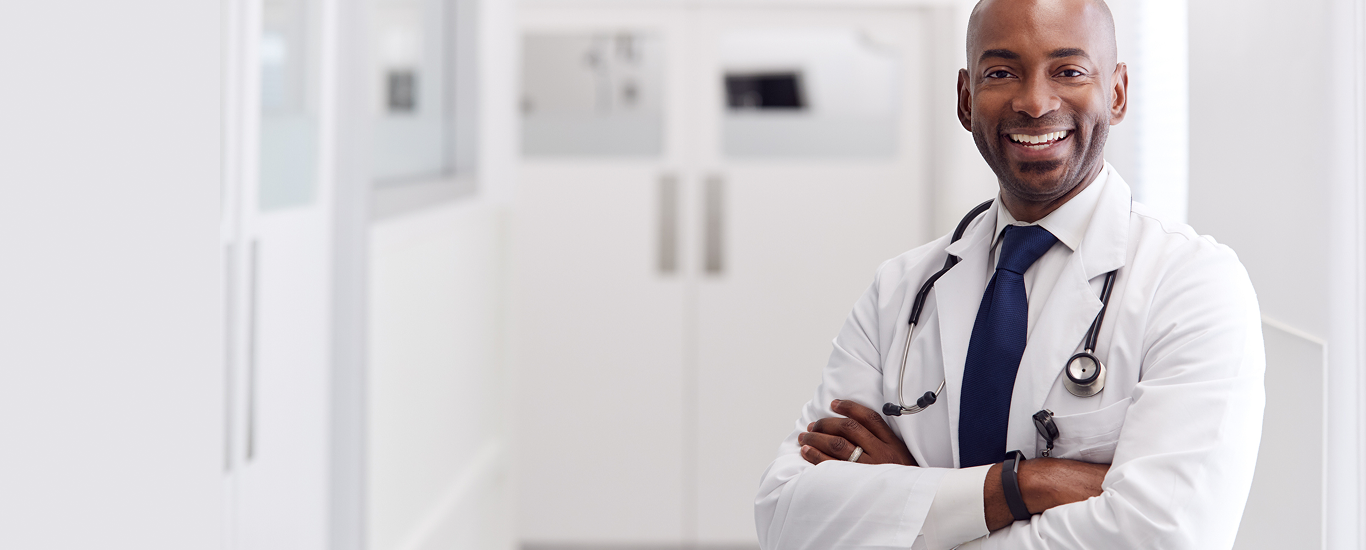
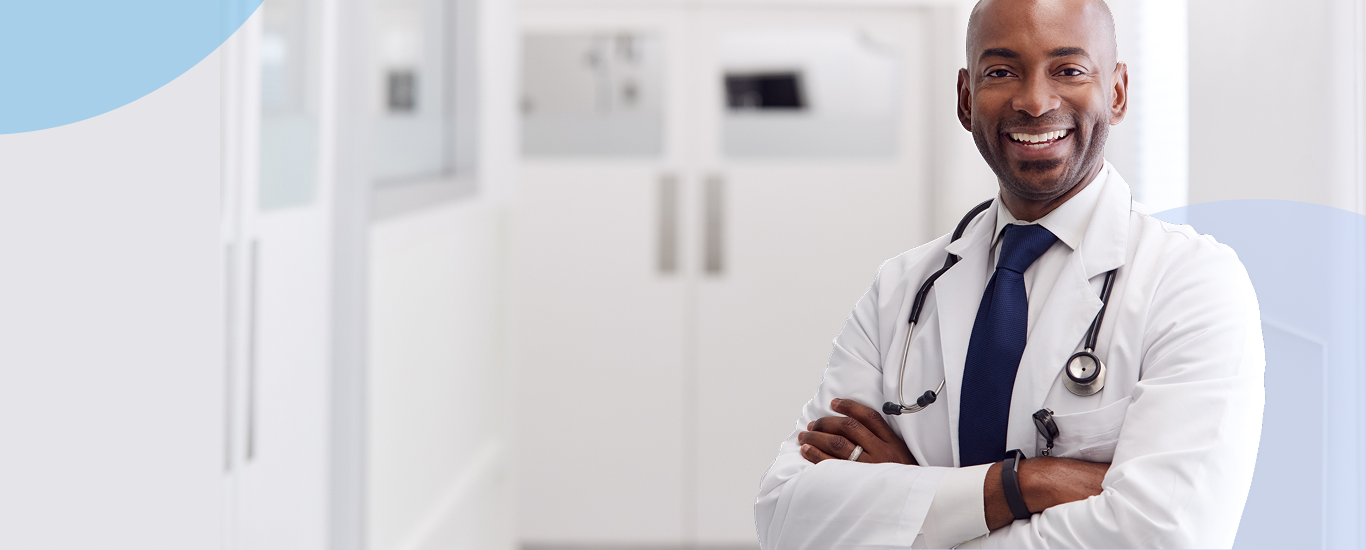
hero section done

diff --git a/index.html b/index.html
@@ -18,6 +18,8 @@
     <link
         href="https://fonts.googleapis.com/css2?family=Lora:ital,wght@0,400..700;1,400..700&family=Plus+Jakarta+Sans:ital,wght@0,200..800;1,200..800&family=Yeseva+One&display=swap"
         rel="stylesheet">
+    <link href="https://fonts.googleapis.com/css2?family=Work+Sans:ital,wght@0,100..900;1,100..900&display=swap"
+        rel="stylesheet">
 </head>
 
 <body>
@@ -25,7 +27,7 @@
         <div class="container">
             <div class="topmost bg-white d-flex justify-content-between align-items-center m-2">
                 <div class="logo">
-                    <h1>MED<span>DICAL</span></h1>
+                    <h1 class="m-0">MED<span>DICAL</span></h1>
                 </div>
                 <div class="d-flex justify-content-center">
                     <div class="note d-flex gap-4">
@@ -57,8 +59,8 @@
         <nav>
             <div class="container d-flex justify-content-between align-items-center">
                 <div class="navbar d-flex align-items-center">
-                    <ul class="d-flex list-unstyled align-items-center gap-4 fs-5 m-0">
-                        <li><a class="active_page text-white text-decoration-none link-primary"
+                    <ul class="d-flex list-unstyled gap-4 fs-5 m-0">
+                        <li><a class="active_page text-primary text-decoration-none link-primary"
                                 href="index.html">Home</a>
                         </li>
                         <li><a class="text-white text-decoration-none link-primary" href="about.html">About Us</a></li>
@@ -70,15 +72,25 @@
 
                     </ul>
                 </div>
-                <div class="nav_btns">
-                    <button class="search_btn">
+                <div class="nav_btns d-flex gap-4">
+                    <button class="search_btn bg-transparent border-0 text-white fs-4 px-2 py-1 rounded-5">
                         <i class="fa-solid fa-magnifying-glass"></i>
                     </button>
-                    <a class="py-2 px-4 text-decoration-none rounded-5" href="">Appointment</a>
+                    <a class="py-2 px-4 text-decoration-none rounded-5 fw-bold" href="">Appointment</a>
                 </div>
             </div>
         </nav>
     </header>
+    <section id="hero">
+        <div class="container h-100 d-flex align-items-center">
+            <div class="hero_content">
+                <h5>Caring for Life</h5>
+                <h2>Leading the Way <br>
+                    in Medical Excellence</h2>
+                <a class="d-inline-block py-2 px-4 text-decoration-none rounded-5 mt-3 fw-bold" href="">Our Services</a>
+            </div>
+        </div>
+    </section>
 </body>
 
 </html>

diff --git a/style.css b/style.css
@@ -1,18 +1,29 @@
+/* initial set up start */
 :root {
     --primary-font-family: "Yeseva One", serif;
+    --secondary-font-family: "Work Sans", sans-serif;
     --primary-color: #1F2B6C;
     --secondary-color: #159EEC;
     --accent-color: #BFD2F8;
+    --primary-font-size: 3rem;
+
 }
 
+h5 {
+    color: var(--secondary-color);
+    font-family: var(--secondary-font-family);
+}
+
+h2 {
+    color: var(--primary-color);
+    font-family: var(--primary-font-family);
+    font-size: var(--primary-font-size);
+}
+
+/* initial set up end*/
 nav {
     background: var(--primary-color);
     padding: 12px 0;
-}
-
-nav .container {
-    display: flex;
-    align-items: center;
 }
 
 h1 {
@@ -24,41 +35,22 @@ h1 span {
     color: var(--secondary-color);
 }
 
-
-
-nav a {
+a {
     transition: all .3s ease;
 }
 
-.active_page {
-    color: var(--secondary-color);
-}
-
-.nav_btns a {
-    background-color: var(--accent-color);
-    color: #1F2B6C;
-}
-
-.nav_btns {
-    display: flex;
-    align-items: center;
-    gap: 12px;
-}
-
-.search_btn {
-    background: none;
-    border: none;
-    color: white;
-    font-size: 18px;
-}
-
-.nav_btns a {
-    display: flex;
-    align-items: center;
-    justify-content: center;
+.nav_btns a,
+#hero a {
     background-color: var(--accent-color);
     color: var(--primary-color);
 }
+
+.nav_btns a:hover,
+#hero a:hover {
+    background-color: #79a6ff;
+    color: white;
+}
+
 
 .note p {
     margin: 0;
@@ -69,5 +61,20 @@ nav a {
 }
 
 .note i {
-    font-size: 1.5rem;
+    font-size: 1.6rem;
+}
+
+/* header section end  */
+
+/* hero section start  */
+
+#hero {
+    background: url(./Assets/images/hero_bg.png) center / cover no-repeat;
+    height: 85vh;
+    width: 100%;
+
+}
+
+p {
+    font-size: 1.2rem;
 }
